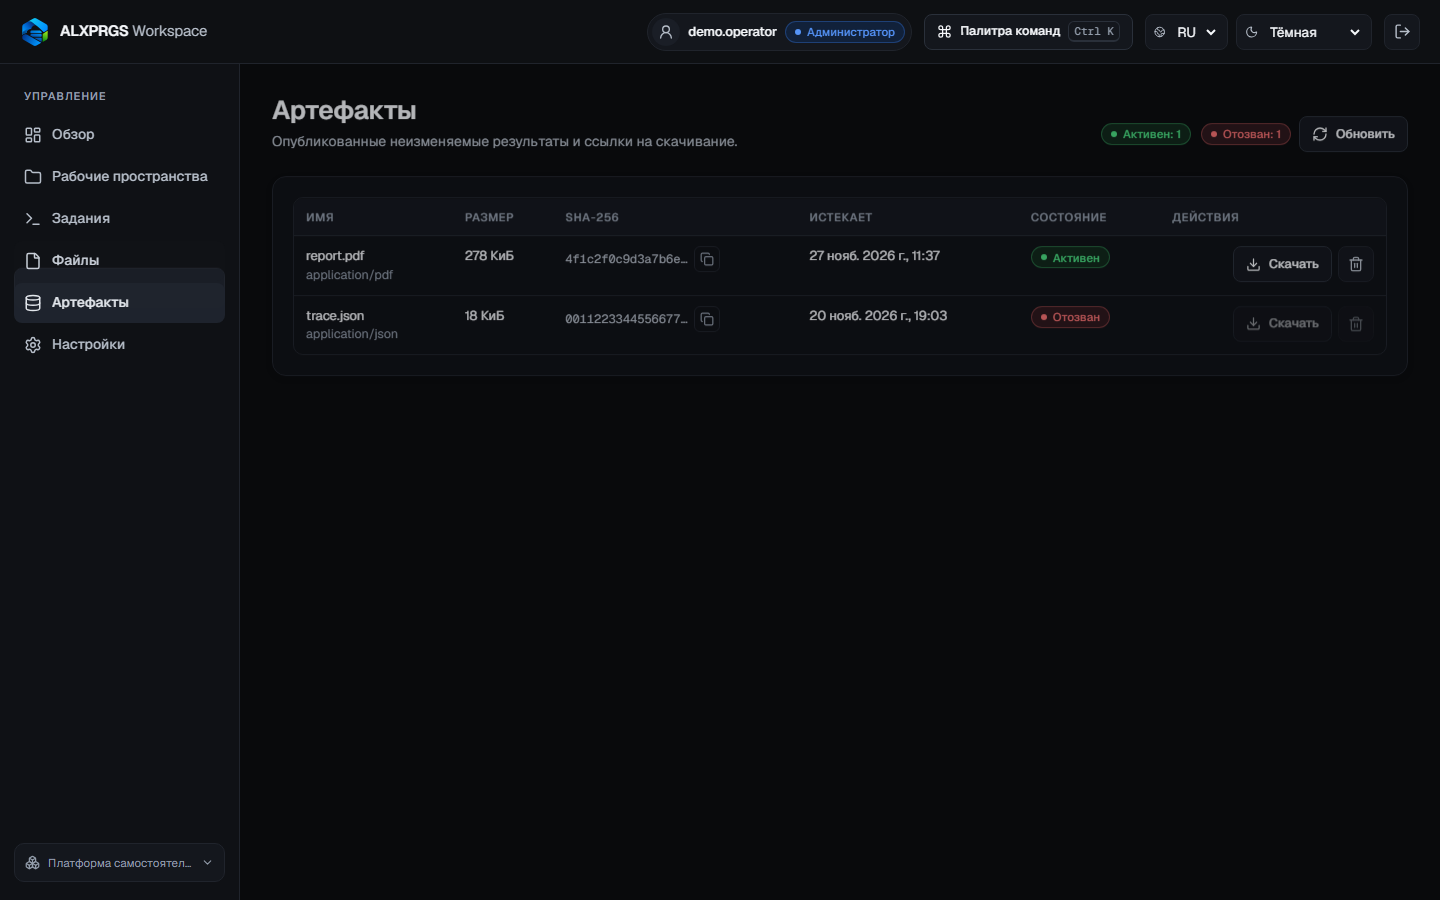
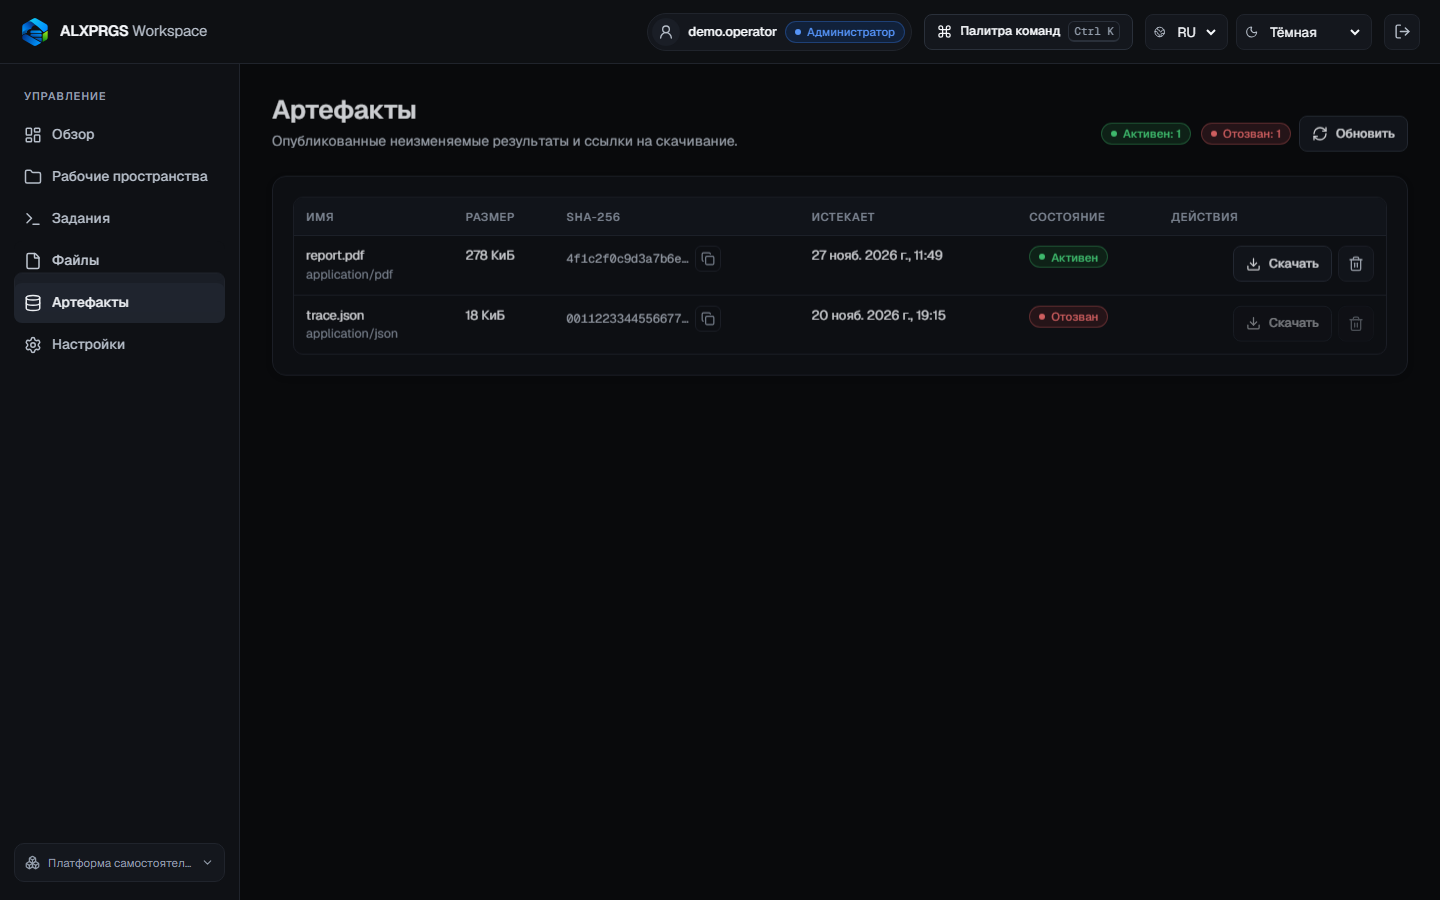
docs(quality): record the final gate and refreshed screenshots (#16)
The table now names the verified code commit, the counts of the full Rust and
web suites, the audit result with its accepted advisory, the real runtime
acceptance and the four ignored acceptance tests that passed on the same
commit. Screenshots were refreshed from the final build.

diff --git a/docs/QUALITY.md b/docs/QUALITY.md
@@ -138,8 +138,20 @@ A skipped or ignored test is not a passing test. The release decision uses
 
 | Date (UTC) | Commit | Rust tests | Clippy | Web | Audits | Runtime acceptance |
 |---|---|---|---|---|---|---|
-| 2026-11-26 | `a6f2890` + dependency upgrade | 279 passed, 0 failed, 7 ignored | clean | typecheck + build, `npm audit`: 0 vulnerabilities | `cargo audit`: 1 accepted advisory (`rsa`, justified above) + 1 unmaintained warning; npm: 0 | PASSED (8990 ms, real WSL2/rootless runtime) |
+| 2026-11-26 | `6e009a0` | 296 passed, 0 failed, 7 ignored | clean | typecheck + build + 15 unit tests, `npm audit`: 0 vulnerabilities | `cargo audit`: 1 accepted advisory (`rsa`, justified above) + 1 unmaintained warning; npm: 0 | PASSED (3044 ms, real WSL2/rootless runtime) |
+
+Ignored acceptance tests run on the same commit and passed: `mcp_e2e` (real
+HTTP listener and OAuth token), `runtime_e2e` (real workspace, job, files,
+artifact publish/download, idempotency conflict), `recovery_e2e` (server
+restart, job interrupted, workspace survives, deletion works) and `egress_e2e`
+(allowlist proxy: allowed 200, denied 403, no direct route).
+
+Browser acceptance is recorded in [docs/UI.md](UI.md): 28 checks, 0 failures,
+0 console errors, 14 synthetic screenshots in `docs/screenshots/`.
 
 Update this table in the same commit that changes the result; a stale row is a
-bug in the process.
+bug in the process. A documentation-only commit after the verified code commit
+does not invalidate the code evidence, but any code change does.
+
+
 
